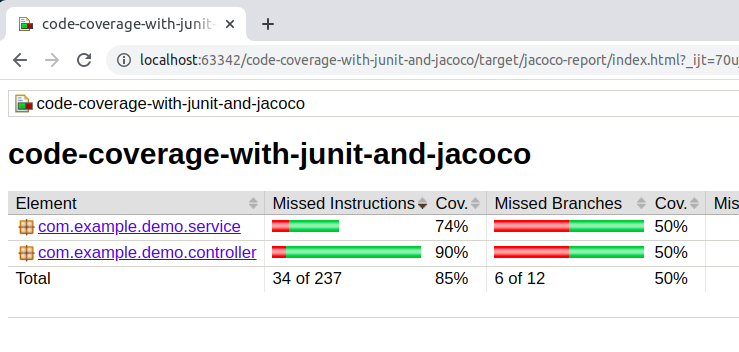
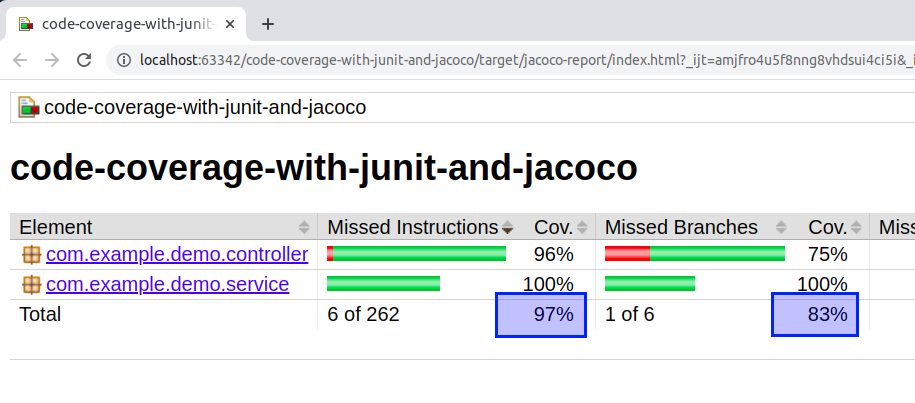
A few more unit tests were added

Changed region(s): [[0.0, 0.5312, 1.0, 0.8438], [0.0, 0.0, 1.0, 0.3438], [0.0, 0.375, 0.7158, 0.5]]

diff --git a/src/main/java/com/example/demo/service/MovieService.java b/src/main/java/com/example/demo/service/MovieService.java
@@ -5,6 +5,7 @@ import com.example.demo.dto.MovieDTO;
 import com.example.demo.model.Movie;
 import com.example.demo.repository.MovieRepository;
 import lombok.Setter;
+import lombok.extern.slf4j.Slf4j;
 import org.modelmapper.ModelMapper;
 import org.springframework.beans.factory.annotation.Autowired;
 import org.springframework.stereotype.Service;
@@ -14,6 +15,7 @@ import java.util.Optional;
 import java.util.stream.Collectors;
 
 @Service
+@Slf4j
 public class MovieService {
 
     @Autowired
@@ -24,24 +26,29 @@ public class MovieService {
     private ModelMapper modelMapper;
 
     public List<MovieDTO> getMovieList() {
+        log.debug("[getMovieList][START]");
+
         List<MovieDTO> movieList = null;
         List<Movie> moviesFromDB = movieRepository.findAll();
 
-        if (moviesFromDB != null && !moviesFromDB.isEmpty())
-            movieList = moviesFromDB.stream()
-                    .map(m -> modelMapper.map(m, MovieDTO.class))
-                    .collect(Collectors.toList());
+        movieList = moviesFromDB.stream()
+                .map(m -> modelMapper.map(m, MovieDTO.class))
+                .collect(Collectors.toList());
 
         return movieList;
     }
 
     public MovieDTO getMovieById(Integer id) {
+        log.debug("[getMovieById][START][id: " + id + "]");
+
         Optional<Movie> movieOptional = movieRepository.findById(id);
         MovieDTO movie = movieOptional.isPresent() ? modelMapper.map(movieOptional.get(), MovieDTO.class) : null;
         return movie;
     }
 
     public MovieDTO createMovie(MovieDTO movieDTO) {
+        log.debug("[getMovieList][START][movieDTO: " + movieDTO.toString() + "]");
+
         Movie savedMovie = movieRepository.save(modelMapper.map(movieDTO, Movie.class));
         return modelMapper.map(savedMovie, MovieDTO.class);
     }

diff --git a/src/test/java/com/example/demo/service/MovieServiceTest.java b/src/test/java/com/example/demo/service/MovieServiceTest.java
@@ -15,6 +15,7 @@ import java.util.Arrays;
 import java.util.List;
 import java.util.Optional;
 
+import static org.mockito.ArgumentMatchers.any;
 import static org.mockito.Mockito.when;
 
 @ExtendWith(MockitoExtension.class)
@@ -57,6 +58,31 @@ public class MovieServiceTest {
         Assertions.assertTrue(movieById != null);
         Assertions.assertEquals(3, movieById.getMovieId());
 
+    }
+
+    @Test
+    public void getMovieByIdNull() {
+        when(movieRepository.findById(3)).thenReturn(Optional.empty());
+
+        ModelMapper modelMapper = new ModelMapper();
+        movieService.setModelMapper(modelMapper);
+        MovieDTO movieById = movieService.getMovieById(3);
+
+        Assertions.assertTrue(movieById == null);
+
+    }
+
+    @Test
+    public void createMovieTest() {
+        when(movieRepository.save(any(Movie.class))).thenReturn(new Movie(4, "Name TTT", 1982));
+
+        ModelMapper modelMapper = new ModelMapper();
+        movieService.setModelMapper(modelMapper);
+
+        MovieDTO createdMovieDTO = movieService.createMovie(new MovieDTO());
+
+        Assertions.assertTrue(createdMovieDTO != null);
+        Assertions.assertEquals(4, createdMovieDTO.getMovieId());
     }
 
 

diff --git a/src/test/java/com/example/demo/controller/MovieControllerTest.java b/src/test/java/com/example/demo/controller/MovieControllerTest.java
@@ -52,6 +52,22 @@ public class MovieControllerTest {
 
         log.debug("mvc result getMoviesListTest: " + mvcResult.getResponse().getContentAsString());
 
+    }
+
+    @Test
+    public void getMoviesListNullTest() throws Exception {
+        when(movieService.getMovieList()).thenReturn(null);
+
+        RequestBuilder request = MockMvcRequestBuilders
+                .get("/movies")
+                .accept(MediaType.APPLICATION_JSON);
+
+        MvcResult mvcResult = mockMvc.perform(request)
+                .andExpect(status().isOk())
+                .andExpect(content().json("{'message':'List is empty!!!'}"))
+                .andReturn();
+
+        log.debug("mvc result getMoviesListNullTest: " + mvcResult.getResponse().getContentAsString());
 
     }
 
@@ -87,7 +103,7 @@ public class MovieControllerTest {
                 .andExpect(content().json("{'message':'Movie was saved!!','movie':{'movieId':1,'name':'Name X','yearRelease':1980}}"))
                 .andReturn();
 
-        log.debug("mvc result getMovieByIdTest: " + mvcResult.getResponse().getContentAsString());
+        log.debug("mvc result createMovieTest: " + mvcResult.getResponse().getContentAsString());
     }
 
 }

diff --git a/src/main/java/com/example/demo/controller/MovieController.java b/src/main/java/com/example/demo/controller/MovieController.java
@@ -83,7 +83,7 @@ public class MovieController {
                 .message("Movie was saved!!")
                 .build();
 
-        if (movieDTO != null) log.debug("[createMovie][movie saved: " + movieDTO.toString() + "]");
+        log.debug("[createMovie][movie saved: " + movieDTO.toString() + "]");
         log.debug("[createMovie][END]");
         return ResponseEntity.status(HttpStatus.CREATED).body(movieResponse);
     }

diff --git a/README.md b/README.md
@@ -74,14 +74,13 @@ Measuring code coverage with the Java Code Coverage Library (JaCoCo).
 
 ![](./screenshots/jacoco_report_directory.png)
 
-**Right now, the report says there is a code coverage of 7% in missed instructions and 0% in missed branches:**
+**Right now, there are no tests available and the JaCoCo report says there is a code coverage of 7% 
+for missed instructions and 0% in missed branches:**
 
 ![Report1](./screenshots/jacoco_report_1.png)
 
-
---------------------------------------------------------------------------
-
-**A few unit test were added and now the code coverage has reached 85%:**
+**A few unit tests were added and now the code coverage has reached 97% for missed instructions 
+and 83% for missed branches:**
 
 ![Report2](./screenshots/jacoco_report_2.png)
 
